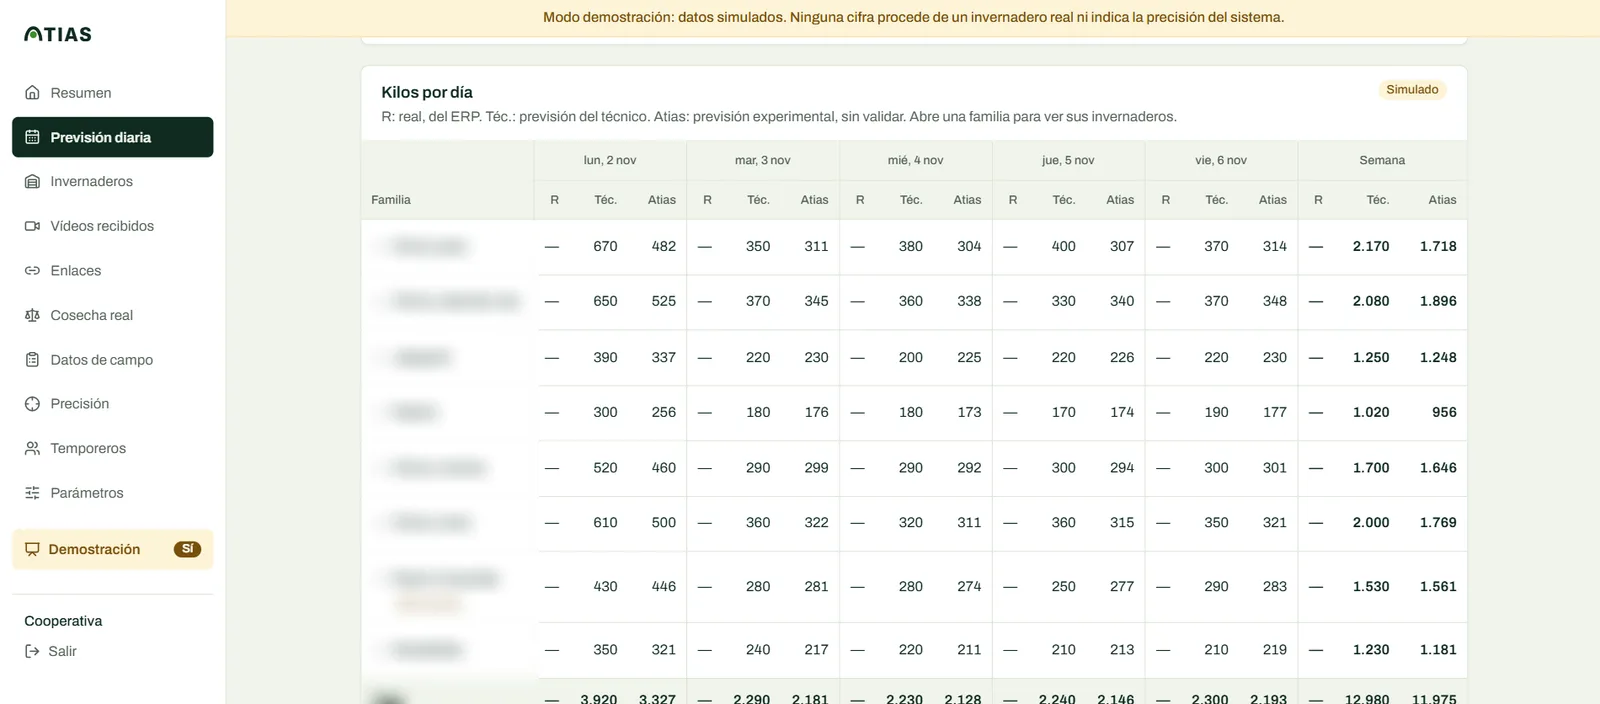
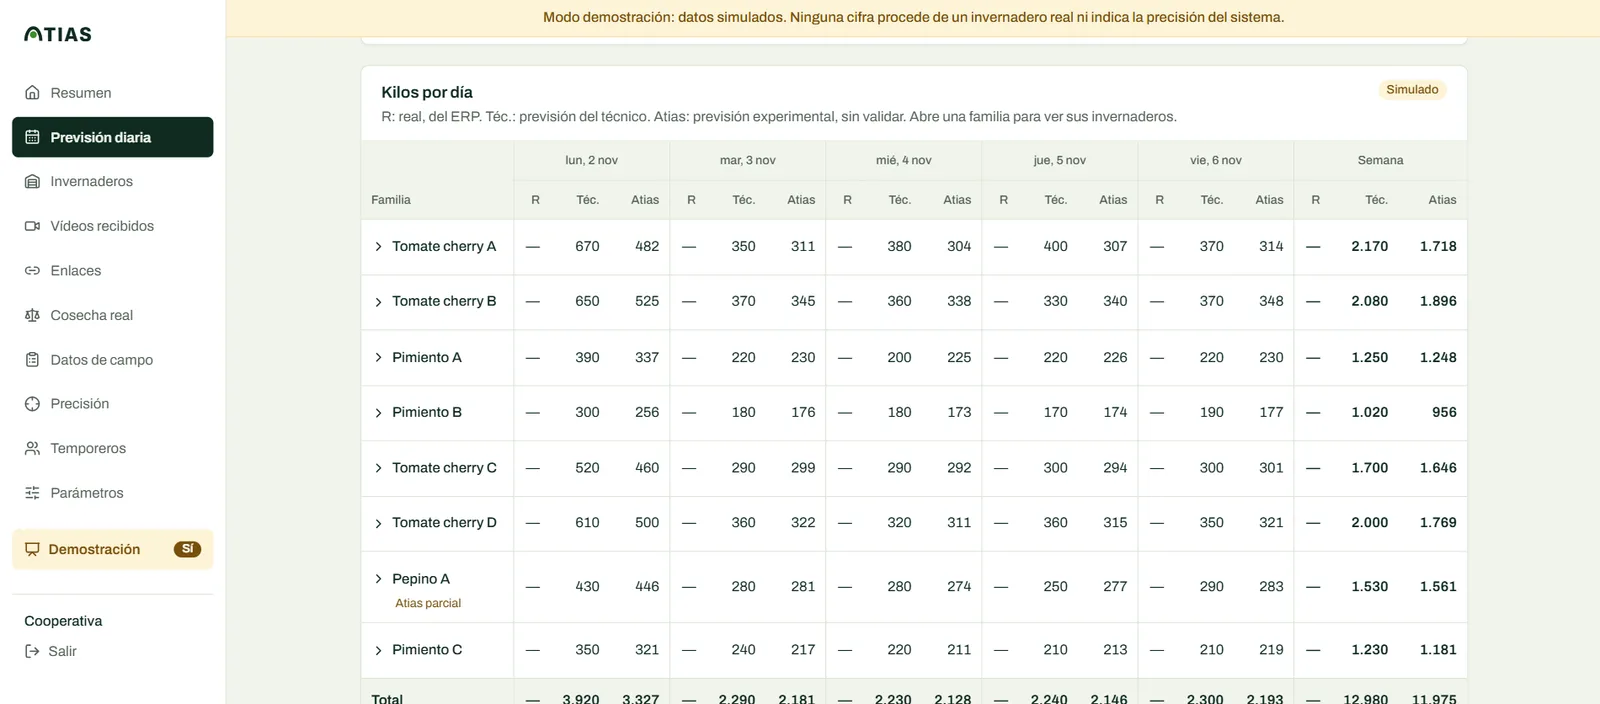
fix: capturas de la app con nombres genéricos de familia en la web y el vídeo

diff --git a/sitio/src/i18n/content/fr.ts b/sitio/src/i18n/content/fr.ts
@@ -503,7 +503,7 @@ export const contentFr: Content = {
     "title": "Ce que voit la coopérative chaque lundi",
     "lead": "De vrais écrans de l’application, avec des données d’exemple. Chacun répond à une décision de la semaine.",
     "sample": "Données d’exemple",
-    "blurred": "Les noms des variétés sont floutés.",
+    "blurred": "Les noms des variétés sont génériques.",
     "uiLanguage": "L’application est présentée en espagnol.",
     "tabsLabel": "Écrans de l’application",
     "screens": [

diff --git a/sitio/src/i18n/content/pt.ts b/sitio/src/i18n/content/pt.ts
@@ -503,7 +503,7 @@ export const contentPt: Content = {
     "title": "O que a cooperativa vê todas as segundas-feiras",
     "lead": "Ecrãs reais da aplicação, com dados de exemplo. Cada um responde a uma decisão da semana.",
     "sample": "Dados de exemplo",
-    "blurred": "Os nomes das variedades aparecem desfocados.",
+    "blurred": "Os nomes das variedades são genéricos.",
     "uiLanguage": "A aplicação é mostrada em espanhol.",
     "tabsLabel": "Ecrãs da aplicação",
     "screens": [

diff --git a/sitio/src/i18n/content/it.ts b/sitio/src/i18n/content/it.ts
@@ -503,7 +503,7 @@ export const contentIt: Content = {
     "title": "Cosa vede la cooperativa ogni lunedì",
     "lead": "Schermate reali dell’app, con dati di esempio. Ognuna risponde a una decisione della settimana.",
     "sample": "Dati di esempio",
-    "blurred": "I nomi delle varietà sono sfocati.",
+    "blurred": "I nomi delle varietà sono generici.",
     "uiLanguage": "L’app è mostrata in spagnolo.",
     "tabsLabel": "Schermate dell’app",
     "screens": [

diff --git a/sitio/src/i18n/content/es.ts b/sitio/src/i18n/content/es.ts
@@ -506,7 +506,7 @@ export const contentEs = {
     "title": "Así lo ve la cooperativa cada lunes",
     "lead": "Pantallas reales de la aplicación, con datos de ejemplo. Cada una responde a una decisión de la semana.",
     "sample": "Datos de ejemplo",
-    "blurred": "Los nombres de las variedades aparecen difuminados.",
+    "blurred": "Los nombres de las variedades son genéricos.",
     "uiLanguage": "",
     "tabsLabel": "Pantallas de la aplicación",
     "screens": [

diff --git a/sitio/src/i18n/content/nl.ts b/sitio/src/i18n/content/nl.ts
@@ -503,7 +503,7 @@ export const contentNl: Content = {
     "title": "Wat de coöperatie elke maandag ziet",
     "lead": "Echte schermen van de app, met voorbeeldgegevens. Elk scherm beantwoordt een beslissing voor de week.",
     "sample": "Voorbeeldgegevens",
-    "blurred": "Rasnamen zijn vervaagd.",
+    "blurred": "Rasnamen zijn generiek.",
     "uiLanguage": "De app wordt in het Spaans getoond.",
     "tabsLabel": "Schermen van de app",
     "screens": [

diff --git a/sitio/src/i18n/content/en.ts b/sitio/src/i18n/content/en.ts
@@ -503,7 +503,7 @@ export const contentEn: Content = {
     "title": "What the cooperative sees every Monday",
     "lead": "Real screens from the app, with sample data. Each one answers a decision for the week.",
     "sample": "Sample data",
-    "blurred": "Variety names are blurred.",
+    "blurred": "Variety names are generic.",
     "uiLanguage": "The app is shown in Spanish.",
     "tabsLabel": "App screens",
     "screens": [
